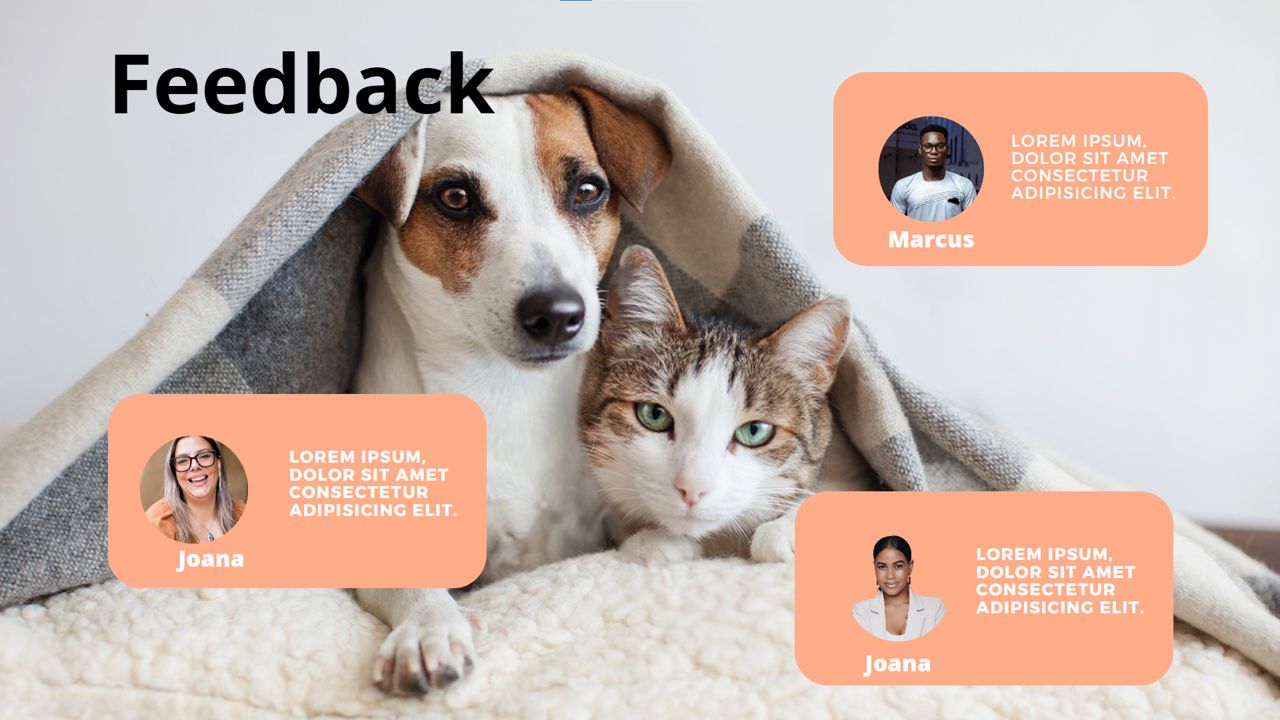
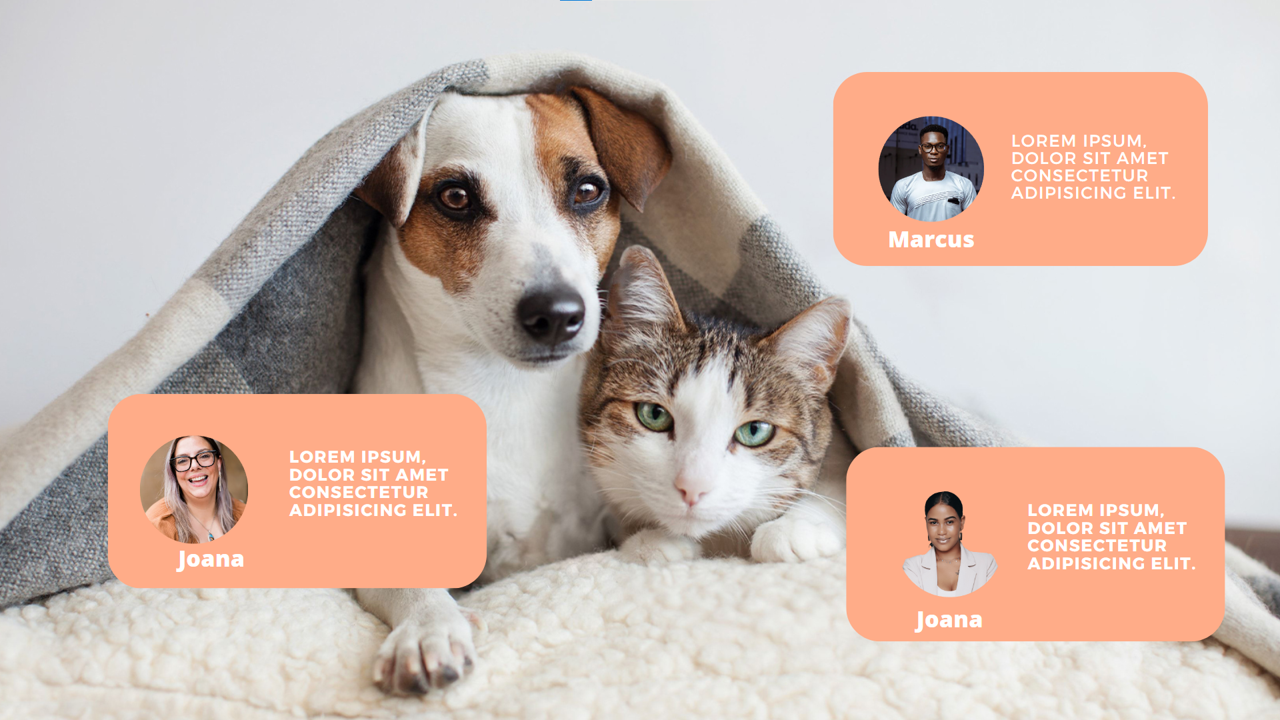
ultimo comit

Changed region(s): [[0.5938, 0.6111, 0.9688, 0.9778], [0.0625, 0.0611, 0.4062, 0.1833]]

diff --git a/assets/css/styles.css b/assets/css/styles.css
@@ -892,8 +892,3 @@ nav h2 a {
  .seta{
     color: black;
  }
-/* .faq{
-    display: flex; 
-    gap: 10px;
-    border: solid 1px red;
-}  */

diff --git a/home.php b/home.php
@@ -130,14 +130,19 @@
         </div>
       </div>
     </div>
-    <!-- card adotar pet -->
-    <img src="/images/mulher-cacholo.PNG" alt="" class="">
+
+    <!-- imagem pre faq (não sei que nome dar) -->
+    <article>
+      <img src="images/mulher-cacholo.PNG" alt="" class="pt-4">
+      <div class="d-grid gap-2 p-5">
+          <button class="btn btn-primary position-relative " type="button">Buscar Pet</button>
+      </div>
+    </article>
 
     <!-- Área FAQ -->
-    <article class="d-flex flex-wrap col-md-7 pt-2 m-auto">
+    <section class="d-flex flex-wrap col-md-7 pt-2 m-auto">
       <!-- Texto -->
       <div class="text-center m-auto">
-        <h2>FAQ</h2>
         <h3>Dúvidas frequentes</h3>
         <p class="text-center">Entre em contato conosco contato@adotapet.com.br</p>
       </div>
@@ -164,27 +169,28 @@
           </h2>
           <div id="collapseTwo" class="accordion-collapse collapse" aria-labelledby="headingTwo" data-bs-parent="#accordionExample">
             <div class="accordion-body">
-              This is the second item's accordion body. It is hidden by default, until the collapse plugin adds the appropriate classes that we use to style each element. These classes control the overall appearance, as well as the showing and hiding via CSS transitions. You can modify any of this with custom CSS or overriding our default variables. It's also worth noting that just about any HTML can go within the <code>.accordion-body</code>, though the transition does limit overflow.
+            "Adotar um pet é um ato de amor, mas e se eu não me adaptar? Lembre-se, a paciência e o tempo podem transformar desafios em laços incríveis de amizade e companheirismo." Porém caso não tenha outra solução entre em contato conosco e encontraremos uma solução favorável.
             </div>
           </div>
         </div>
         <div class="accordion-item">
           <h2 class="accordion-header" id="headingThree">
             <button class="accordion-button collapsed" type="button" data-bs-toggle="collapse" data-bs-target="#collapseThree" aria-expanded="false" aria-controls="collapseThree">
-              <strong> Posso adotar mais de um pet?</strong>
+              <strong>Posso adotar mais de um pet?</strong>
             </button>
           </h2>
           <div id="collapseThree" class="accordion-collapse collapse" aria-labelledby="headingThree" data-bs-parent="#accordionExample">
             <div class="accordion-body">
-              This is the third item's accordion body. It is hidden by default, until the collapse plugin adds the appropriate classes that we use to style each element. These classes control the overall appearance, as well as the showing and hiding via CSS transitions. You can modify any of this with custom CSS or overriding our default variables. It's also worth noting that just about any HTML can go within the <code>.accordion-body</code>, though the transition does limit overflow.
+            Claro! Adotar mais de um pet é uma escolha maravilhosa. Muitos lares abrigam múltiplos animais, proporcionando companheirismo e alegria. Certifique-se de dar amor e atenção a todos eles!
             </div>
           </div>
         </div>
       </div>
-    </article>
+    </section>
 
     <!-- FEEDBACK -->
-    <div id="carouselExampleIndicators" class="carousel slide col-md-6 pt-5 m-auto">
+    <h2 class="text-center pt-4">Feedbacks</h2>
+    <div id="carouselExampleIndicators" class="carousel slide col-md-6 pt-2 m-auto">
       <div class="carousel-indicators">
         <button type="button" data-bs-target="#carouselExampleIndicators" data-bs-slide-to="0" class="active" aria-current="true" aria-label="Slide 1"></button>
         <button type="button" data-bs-target="#carouselExampleIndicators" data-bs-slide-to="1" aria-label="Slide 2"></button>
@@ -216,7 +222,7 @@
   <footer class=" text-lg-start footer-color text-muted">
 
     <!-- ====== Links ====== -->
-    <section class="">
+    <section>
       <div class="container text-center text-md-start mt-5">
 
         <!-- Grid row -->
